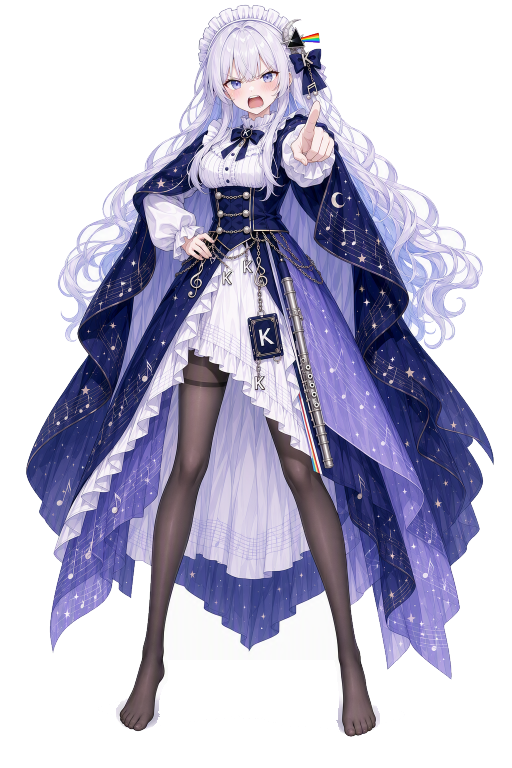
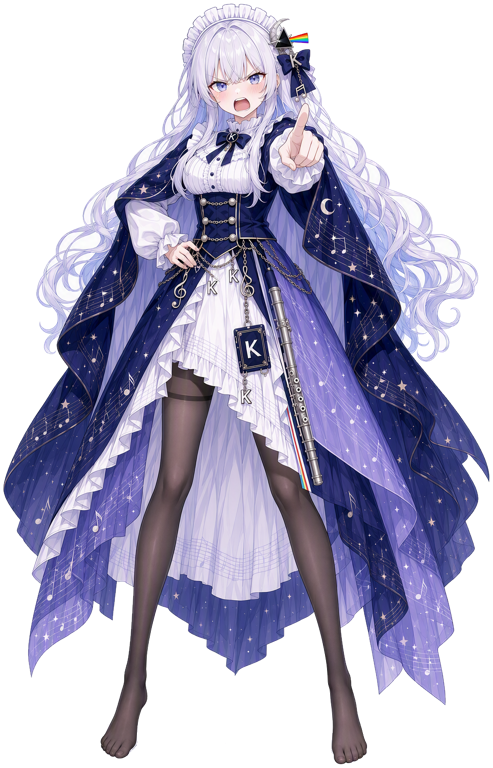
feat: 窗体扩到 460x740 防动作截断（特效层 340x620 逻辑画幅底部居中锚定）；指人发火/暗中观察换新立绘；黑底抠图工具

diff --git a/src/renderer.js b/src/renderer.js
@@ -30,19 +30,25 @@ const IGNORE_AFTER = 40; // 秒，超过这么久没互动就「走了走了」
 const FAR_Y = -50;       // 走远后向上飘的距离（px）
 // 与 main.js 的窗口基础尺寸保持一致
 // settings._size 是整体缩放系数：窗口会跟着 resize，这里所有窗口坐标也要乘系数
-const WIN_W = 340;
-const WIN_H = 620;
+const WIN_W = 460;
+const WIN_H = 740;
+// 特效/道具坐标标定在 340×620 逻辑画幅上（底部居中对齐窗口）；窗口加大后，
+// SVG 特效层靠 CSS 底部居中锚定，DOM 道具（笛子/踏板/卡牌）的平移要加这个偏移
+const LOGIC_W = 340;
+const LOGIC_H = 620;
 let sizeK = 1;
 const winW = () => Math.round(WIN_W * sizeK);
 const winH = () => Math.round(WIN_H * sizeK);
 const sk = (v) => v * sizeK; // 窗口坐标/尺寸换算
+const offX = () => (winW() - LOGIC_W * sizeK) / 2;
+const offY = () => winH() - LOGIC_H * sizeK;
 
 // 立绘高度与特效层尺寸随整体缩放更新
 function applySpriteHeight() {
   sprite.style.height = FORMS[form].height * sizeK + 'px';
   const fx = document.getElementById('fx');
-  fx.setAttribute('width', winW());
-  fx.setAttribute('height', winH());
+  fx.setAttribute('width', Math.round(LOGIC_W * sizeK));
+  fx.setAttribute('height', Math.round(LOGIC_H * sizeK));
   const card = document.getElementById('cardImg');
   if (card) card.style.width = 64 * sizeK + 'px';
   const board = document.getElementById('boardImg');
@@ -52,11 +58,11 @@ function applySpriteHeight() {
   // 场景图（睡觉/看腿）：DOM 图不随窗口尺寸走，手动乘缩放
   const sleepImg = document.getElementById('sleepImg');
   if (sleepImg) {
-    sleepImg.style.width = 340 * sizeK + 'px';
-    for (const im of sleepImg.querySelectorAll('img')) im.style.width = 340 * sizeK + 'px';
+    sleepImg.style.width = LOGIC_W * sizeK + 'px';
+    for (const im of sleepImg.querySelectorAll('img')) im.style.width = LOGIC_W * sizeK + 'px';
   }
   const legImg = document.getElementById('legImg');
-  if (legImg) legImg.style.width = 340 * sizeK + 'px';
+  if (legImg) legImg.style.width = LOGIC_W * sizeK + 'px';
 }
 
 const FRONT_SRC = '../assets/pet.png';
@@ -199,7 +205,7 @@ const LINES = {
   brock: ['哼', '就不回头', '你自己玩吧', '不想理你了', '哄不好了'],
   knock: ['你理理我嘛', '在吗在吗？开门！', '开门开门！是我！', '理我一下嘛~', '喂——我在这儿！'],
   climb: ['爬上去看看！', '嘿咻嘿咻…', '上面的风景应该不错~'],
-  yell: ['你！就是你！', '戳戳戳，就知道戳！', '别碰我！！', '我数到三！一！！', '大坏蛋！', '哼！气死我了！', '再戳我真生气了！', '出来挨打！（叉腰）', '骂骂咧咧骂骂咧咧', '你礼貌吗！！'],
+  yell: ['你！就是你！', '戳戳戳，就知道戳！', '别碰我！！', '我数到三！一！！', '大坏蛋！', '哼！气死我了！', '再戳我真生气了！', '出来挨打！（叉腰）', '骂骂咧咧骂骂咧咧', '你礼貌吗！！', '手指的就是你！', '别躲！说的就是你！', '你给我过来！'],
 };
 
 function enter(next, dur = 0) {
@@ -504,6 +510,7 @@ function doPoint() {
   applyEffect('point');
   say(pick(LINES.yell), 1800);
   swapSprite(POINT_SRC);
+  fxText('💢', 235 + rand(-15, 15), 190 + rand(-10, 10), 26);
   pointState = { said: 1, lineT: 0 };
   enter('point');
 }
@@ -687,7 +694,7 @@ function fluteShow(x, y, rot, behind) {
   fluteImg.style.display = 'block';
   fluteImg.style.zIndex = behind ? 1 : 3;
   fluteImg.style.opacity = behind ? 0.55 : 1; // 身后时压暗模拟遮挡
-  fluteImg.style.transform = `translate(${sk(x) - 30}px, ${sk(y) - 64}px) rotate(${rot}deg)`;
+  fluteImg.style.transform = `translate(${sk(x) - 30 + offX()}px, ${sk(y) - 64 + offY()}px) rotate(${rot}deg)`;
 }
 
 function fluteHide() { fluteImg.style.display = 'none'; }
@@ -828,7 +835,7 @@ async function doWallBang() {
 
 // ---------- 敲门求关注 ----------
 // 跑到活跃窗口的侧边，侧身对着边沿「棒！棒！棒！」敲门，喊你理理我嘛
-// 侧身图 493x1298，显示高 512 → 显示半宽约 97px；身体在 340 窗口内居中，左右沿 = 170∓97
+// 侧身图 493x1298，显示高 512 → 显示半宽约 97px；身体在窗口内居中，左右沿 = 窗心∓97
 const SIDE_HALF_W = 97;
 let knock = null;
 let pendingKnock = false;
@@ -839,10 +846,11 @@ async function doKnock() {
   const aw = await window.pet.activeWindow();
   let tx, dir;
   if (aw) {
-    // 贴的是「身体边缘」不是窗口框：侧身图显示半宽约 97px，居中在 340 窗口里，
-    // 身体左沿 = 170-97，右沿 = 170+97；让贴墙一侧的身体边和窗口边重合（再多吃 4px 像真贴上）
-    const leftTx = aw.x - (170 * sizeK + SIDE_HALF_W * sizeK) + 4;          // 敲窗口左沿：她站左边，身体右边贴上
-    const rightTx = aw.x + aw.w - (170 * sizeK - SIDE_HALF_W * sizeK) - 4;  // 敲窗口右沿：她站右边，身体左边贴上
+    // 贴的是「身体边缘」不是窗口框：侧身图显示半宽约 97px，居中在窗口里，
+    // 身体左沿 = 窗心-97，右沿 = 窗心+97；让贴墙一侧的身体边和窗口边重合（再多吃 4px 像真贴上）
+    const cx = winW() / 2;
+    const leftTx = aw.x - (cx + SIDE_HALF_W * sizeK) + 4;          // 敲窗口左沿：她站左边，身体右边贴上
+    const rightTx = aw.x + aw.w - (cx - SIDE_HALF_W * sizeK) - 4;  // 敲窗口右沿：她站右边，身体左边贴上
     const leftOk = leftTx >= st.minX, rightOk = rightTx <= st.maxX;
     const dLeft = Math.abs(px - leftTx), dRight = Math.abs(px - rightTx);
     if (leftOk && (!rightOk || dLeft <= dRight)) { tx = leftTx; dir = 1; }
@@ -897,14 +905,14 @@ async function doClimb() {
     idleWait = nextIdleWait(2, 4);
     return;
   }
-  // 站位：攀爬帧的拳头/脚趾触点（实测基准窗口 x≈252）对准窗沿，再压 2px，手紧握、脚蹬紧。
+  // 站位：攀爬帧的拳头/脚趾触点（旧 340 窗口实测 x≈252，即窗心+82）对准窗沿，再压 2px，手紧握、脚蹬紧。
   // 注意别用袖口/小臂最右点（frame-x 410）对齐——那会让拳头恒差 12px；袖口探过窗沿是合理的
-  const GRIP_X = 252 * sizeK;
+  const GRIP_X = winW() / 2 + 82 * sizeK;
   const leftTx = aw.x - GRIP_X + 2;
   const rightTx = aw.x + aw.w - (winW() - GRIP_X) - 2;
   const leftOk = leftTx >= st.minX, rightOk = rightTx <= st.maxX;
   // 选边：以她的中心到两侧窗沿的距离，永远走最近的一边
-  const cx = px + 170 * sizeK;
+  const cx = px + winW() / 2;
   const dLeft = Math.abs(cx - aw.x), dRight = Math.abs(cx - (aw.x + aw.w));
   let tx, useLeft;
   if (leftOk && (!rightOk || dLeft <= dRight)) { tx = leftTx; useLeft = true; }
@@ -1119,7 +1127,7 @@ stage.appendChild(boardImg);
 // boardY: 踏板中心在窗口里的 y（脚下）；boardRot: 角度
 function boardShow(yC, rot) {
   boardImg.style.display = 'block';
-  boardImg.style.transform = `translate(${FOOT_X - 70}px, ${yC - 150}px) rotate(${rot}deg)`;
+  boardImg.style.transform = `translate(${FOOT_X - 70 + offX()}px, ${yC - 150 + offY()}px) rotate(${rot}deg)`;
 }
 
 function boardHide() { boardImg.style.display = 'none'; }
@@ -1265,7 +1273,7 @@ let pendingSeal = false;
 function cardShow(x, y, s, r, o) {
   cardImg.style.display = 'block';
   cardImg.style.opacity = o;
-  cardImg.style.transform = `translate(${sk(x) - 32}px, ${sk(y) - 68}px) rotate(${r}deg) scale(${s})`;
+  cardImg.style.transform = `translate(${sk(x) - 32 + offX()}px, ${sk(y) - 68 + offY()}px) rotate(${r}deg) scale(${s})`;
 }
 
 function cardHide() { cardImg.style.display = 'none'; }
@@ -2756,8 +2764,14 @@ function frame(now) {
       break;
     }
     case 'point': {
-      // 叉腰指人骂骂咧咧：快速小幅点戳抖动，~1.1s 换一句，四句骂完收工
-      rot = Math.sin(stateT * 16) * 1.6;
+      // 入场先往前一戳（缩放冲一下收回），然后快速小幅点戳抖动，~1.1s 换一句，四句骂完收工
+      if (stateT < 0.28) {
+        const punch = 1.13 - 0.13 * easeInOut(stateT / 0.28);
+        sx = punch;
+        sy = punch;
+      } else {
+        rot = Math.sin(stateT * 16) * 1.6;
+      }
       ty = -Math.abs(Math.sin(stateT * 8)) * 2;
       pointState.lineT += dt;
       if (pointState.lineT > 1.15 && pointState.said < 4) {
@@ -2972,7 +2986,7 @@ function frame(now) {
   // 缩放 = 远近缩放 × 整体缩放，但有下限 0.8——人物变再小，字也得能看清
   const spriteH = (state.startsWith('desk') || state.startsWith('work') ? 700 : FORMS[form].height) * sizeK;
   // 睡觉场景中她的头在场景图上部，气泡贴那里
-  const headY = state.startsWith('sleep') ? 280 * sizeK : winH() + ty - spriteH * sy * curSize;
+  const headY = state.startsWith('sleep') ? 280 * sizeK + offY() : winH() + ty - spriteH * sy * curSize;
   const bScale = Math.max((state.startsWith('sleep') ? 1 : curSize) * sizeK, 0.8);
   sendBubbleAnchor(winW() / 2 + tx, headY, bScale);
 

diff --git a/src/overlay.js b/src/overlay.js
@@ -370,23 +370,25 @@ function peekFace(side, y) {
   img.src = '../assets/head_big.png';
   img.onload = () => {
     const W = Math.round(H * img.naturalWidth / img.naturalHeight);
+    // 图右侧的墙沿竖线（约 94.6% 处）对齐屏幕边：她从屏幕外扒着边沿探出头来
+    const off = Math.round(W * 0.054);
     const top = Math.min(Math.max(Math.round(y - H / 2), 10), innerHeight - H - 10);
-    const fromX = side === 'left' ? -60 : 60;
+    const fromX = (side === 'left' ? -1 : 1) * Math.round(W * 0.55);
     const box = document.createElement('div');
-    box.style.cssText = `position:fixed;top:${top}px;${side}:${-Math.round(W / 2)}px;width:${W}px;height:${H}px;` +
+    box.style.cssText = `position:fixed;top:${top}px;${side}:${-off}px;width:${W}px;height:${H}px;` +
       `pointer-events:none;opacity:0;transform:translateX(${fromX}px);` +
       'transition:opacity .45s ease,transform .55s cubic-bezier(.2,1.25,.4,1);' +
       'filter:drop-shadow(0 10px 30px rgba(20,20,50,.45));';
-    // 镜像层：从右侧来时脸转向屏幕中央；img 层做悬浮起伏
+    // 镜像层：原图扒的是右边的沿，从左侧来时镜像到左边；img 层做悬浮起伏
     const flip = document.createElement('div');
-    flip.style.cssText = 'width:100%;height:100%;' + (side === 'right' ? 'transform:scaleX(-1);' : '');
+    flip.style.cssText = 'width:100%;height:100%;' + (side === 'left' ? 'transform:scaleX(-1);' : '');
     img.style.cssText = 'width:100%;height:100%;animation:peekbob 2.6s ease-in-out infinite;';
     flip.appendChild(img);
     box.appendChild(flip);
-    // 气泡台词：贴在探进来的半张脸旁边
+    // 气泡台词：贴在探进来的脸旁边
     const bub = document.createElement('div');
     bub.textContent = PEEK_LINES[Math.floor(Math.random() * PEEK_LINES.length)];
-    bub.style.cssText = `position:fixed;top:${top + Math.round(H * 0.12)}px;${side}:${Math.round(W / 2) + 14}px;` +
+    bub.style.cssText = `position:fixed;top:${top + Math.round(H * 0.12)}px;${side}:${Math.round(W * 0.55)}px;` +
       'pointer-events:none;background:rgba(255,255,255,.95);color:#5b5680;font:600 17px "PingFang SC",sans-serif;' +
       'padding:9px 16px;border-radius:16px;box-shadow:0 4px 14px rgba(80,60,160,.25);opacity:0;transition:opacity .3s ease;';
     document.body.appendChild(box);

diff --git a/tools/cutout_dark.js b/tools/cutout_dark.js
@@ -1,0 +1,62 @@
+// 黑底图抠图：边缘洪水填充去近黑底 → 自动裁边
+// 用法: node tools/cutout_dark.js <src.png> <out.png>
+const fs = require('fs');
+const { PNG } = require('pngjs');
+
+const SRC = process.argv[2];
+const OUT = process.argv[3];
+
+// 判定「接近黑底」：整体暗且 RGB 接近（保住深蓝蝴蝶结等有色暗部）
+function isBg(r, g, b) {
+  return r < 48 && g < 48 && b < 48 && Math.max(r, g, b) - Math.min(r, g, b) < 26;
+}
+
+const png = PNG.sync.read(fs.readFileSync(SRC));
+const { width: W, height: H, data } = png;
+
+const visited = new Uint8Array(W * H);
+const queue = [];
+function seed(x, y) {
+  const i = y * W + x;
+  if (visited[i]) return;
+  const p = i * 4;
+  if (isBg(data[p], data[p + 1], data[p + 2])) { visited[i] = 1; queue.push(i); }
+}
+for (let x = 0; x < W; x++) { seed(x, 0); seed(x, H - 1); }
+for (let y = 0; y < H; y++) { seed(0, y); seed(W - 1, y); }
+while (queue.length) {
+  const i = queue.pop();
+  const x = i % W, y = (i / W) | 0;
+  for (const [nx, ny] of [[x + 1, y], [x - 1, y], [x, y + 1], [x, y - 1]]) {
+    if (nx < 0 || ny < 0 || nx >= W || ny >= H) continue;
+    const ni = ny * W + nx;
+    if (visited[ni]) continue;
+    const p = ni * 4;
+    if (isBg(data[p], data[p + 1], data[p + 2])) { visited[ni] = 1; queue.push(ni); }
+  }
+}
+for (let i = 0; i < W * H; i++) if (visited[i]) data[i * 4 + 3] = 0;
+
+// 自动裁边
+let minX = W, minY = H, maxX = 0, maxY = 0;
+for (let y = 0; y < H; y++) {
+  for (let x = 0; x < W; x++) {
+    if (data[(y * W + x) * 4 + 3] > 8) {
+      if (x < minX) minX = x;
+      if (x > maxX) maxX = x;
+      if (y < minY) minY = y;
+      if (y > maxY) maxY = y;
+    }
+  }
+}
+const cw = maxX - minX + 1, ch = maxY - minY + 1;
+const out = new PNG({ width: cw, height: ch });
+for (let y = 0; y < ch; y++) {
+  for (let x = 0; x < cw; x++) {
+    const si = ((minY + y) * W + (minX + x)) * 4;
+    const di = (y * cw + x) * 4;
+    data.copy(out.data, di, si, si + 4);
+  }
+}
+fs.writeFileSync(OUT, PNG.sync.write(out));
+console.log(`cutout done: ${cw}x${ch} -> ${OUT}`);

diff --git a/tools/cutout_patch.js b/tools/cutout_patch.js
@@ -1,0 +1,32 @@
+// 二次清底：从指定种子点洪水填充白底（不跨阴影渐变，保住白色裙摆）
+const fs = require('fs');
+const { PNG } = require('pngjs');
+const FILE = process.argv[2];
+const SEEDS = process.argv.slice(3).map((s) => s.split(',').map(Number));
+function isBg(r, g, b) {
+  const t = +(process.env.THRESH || 226); return r > t && g > t && b > t && Math.max(r, g, b) - Math.min(r, g, b) < +(process.env.SPREAD || 30);
+}
+const png = PNG.sync.read(fs.readFileSync(FILE));
+const { width: W, height: H, data } = png;
+const visited = new Uint8Array(W * H);
+const queue = [];
+for (const [sx, sy] of SEEDS) {
+  const i = sy * W + sx, p = i * 4;
+  if (!visited[i] && data[p + 3] > 0 && isBg(data[p], data[p + 1], data[p + 2])) { visited[i] = 1; queue.push(i); }
+}
+let n = 0;
+while (queue.length) {
+  const i = queue.pop();
+  const x = i % W, y = (i / W) | 0;
+  for (const [nx, ny] of [[x+1,y],[x-1,y],[x,y+1],[x,y-1]]) {
+    if (nx < 0 || ny < 0 || nx >= W || ny >= H) continue;
+    const ni = ny * W + nx;
+    if (visited[ni]) continue;
+    const p = ni * 4;
+    if (data[p + 3] === 0) continue; // 已透明的不算边界但也不扩散
+    if (isBg(data[p], data[p + 1], data[p + 2])) { visited[ni] = 1; queue.push(ni); }
+  }
+}
+for (let i = 0; i < W * H; i++) if (visited[i]) { data[i * 4 + 3] = 0; n++; }
+fs.writeFileSync(FILE, PNG.sync.write(png));
+console.log('cleared', n, 'px');

diff --git a/src/main.js b/src/main.js
@@ -6,10 +6,11 @@ const https = require('https');
 const os = require('os');
 const path = require('path');
 
-// 窗口基础尺寸：给跳跃/摇摆留出顶部和两侧余量，立绘锚定在底部
+// 窗口基础尺寸：比立绘（512 高）大一圈，给跳跃/旋转/乱飞等会探出身体的动作留余量
 // settings._size 是整体缩放系数（配置页滑块），实际窗口尺寸 = 基础尺寸 × 系数
-const BASE_W = 340;
-const BASE_H = 620;
+// 注意：特效/道具坐标都标定在 340×620 逻辑画幅上（底部居中对齐窗口），改尺寸不用动它们
+const BASE_W = 460;
+const BASE_H = 740;
 function sizeK() { return settings._size || 1; }
 function winW() { return Math.round(BASE_W * sizeK()); }
 function winH() { return Math.round(BASE_H * sizeK()); }

diff --git a/tools/cutout_rect.js b/tools/cutout_rect.js
@@ -1,0 +1,18 @@
+// 矩形区域内清浅色像素（清脚下阴影用，深色脚不受影响）
+const fs = require('fs');
+const { PNG } = require('pngjs');
+const FILE = process.argv[2];
+const [x0, y0, x1, y1] = process.argv.slice(3, 7).map(Number);
+const png = PNG.sync.read(fs.readFileSync(FILE));
+const { width: W, data } = png;
+let n = 0;
+for (let y = y0; y <= y1; y++) {
+  for (let x = x0; x <= x1; x++) {
+    const p = (y * W + x) * 4;
+    if (data[p + 3] === 0) continue;
+    const r = data[p], g = data[p + 1], b = data[p + 2];
+    if (r > 185 && g > 180 && b > 185 && Math.max(r, g, b) - Math.min(r, g, b) < 55) { data[p + 3] = 0; n++; }
+  }
+}
+fs.writeFileSync(FILE, PNG.sync.write(png));
+console.log('cleared', n, 'px');

diff --git a/src/index.html b/src/index.html
@@ -127,10 +127,12 @@
   }
   #sleepImg .base { display: block; width: 340px; height: auto; }
   #sleepImg .top { position: absolute; top: 0; left: 0; width: 340px; height: auto; }
-  /* 漫画特效 SVG 层 */
+  /* 漫画特效 SVG 层：340×620 逻辑画幅，底部居中对齐窗口（窗口加大后两侧/顶部是余量） */
   #fx {
     position: absolute;
-    inset: 0;
+    left: 50%;
+    bottom: 0;
+    transform: translateX(-50%);
     pointer-events: none;
   }
   /* 爆裂星/拟声词：弹出后消散 */
